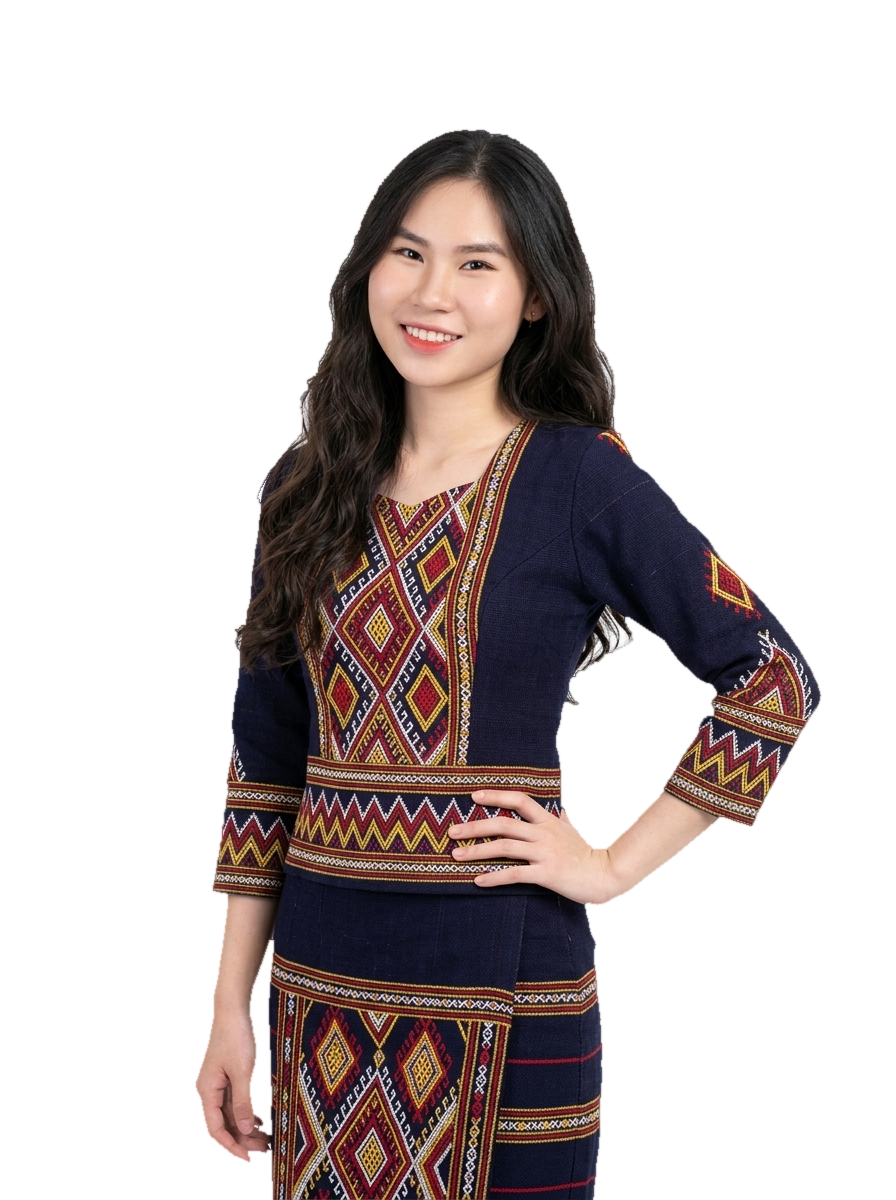
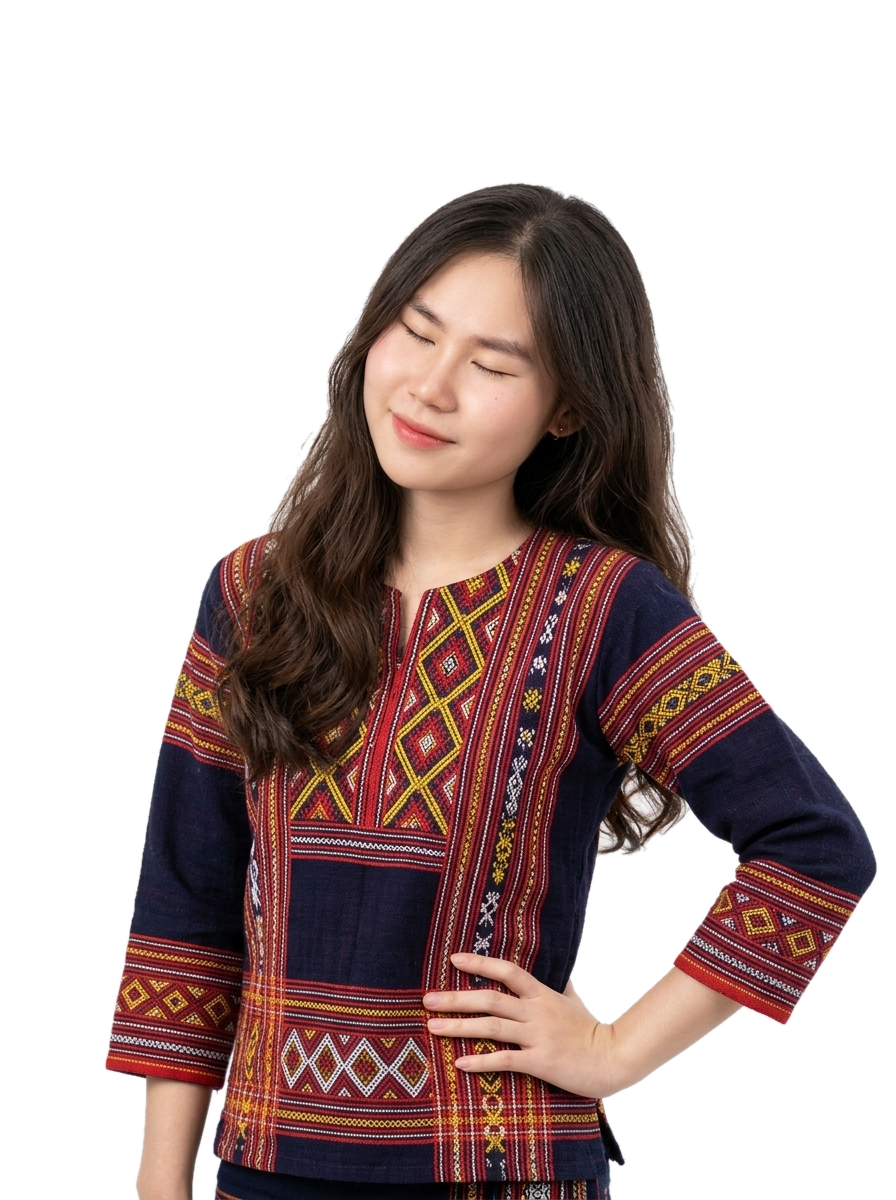
feat(team): update Mai Thi Cam Tu and Huynh Diep Cam Tu portraits and center Mai Thi Cam Tu

diff --git a/src/app/page.tsx b/src/app/page.tsx
@@ -70,13 +70,6 @@ const CATEGORIES_METADATA = [
 
 const FOUNDING_TEAM = [
   {
-    name: 'Mai Thị Cẩm Tú',
-    role: 'Lead / Trưởng Nhóm Dự Án',
-    badge: 'LEAD',
-    image: '/images/team/MaiThiCamTu_brocade.png',
-    desc: 'Điều phối tổng thể, nghiên cứu mô hình kinh doanh xã hội & kết nối hợp tác buôn làng.',
-  },
-  {
     name: 'Huỳnh Diệp Cẩm Tú',
     role: 'Phụ Trách Pháp Lý & Đối Ngoại',
     badge: 'LEGAL',
@@ -89,6 +82,13 @@ const FOUNDING_TEAM = [
     badge: 'TOURISM',
     image: '/images/team/NguyenNgocNu_brocade.png',
     desc: 'Phụ trách trải nghiệm bản địa, kết nối làng du lịch cộng đồng Ia Mơ Nông & lan tỏa văn hóa thổ cẩm Jrai.',
+  },
+  {
+    name: 'Mai Thị Cẩm Tú',
+    role: 'Lead / Trưởng Nhóm Dự Án',
+    badge: 'LEAD',
+    image: '/images/team/MaiThiCamTu_brocade.png',
+    desc: 'Điều phối tổng thể, nghiên cứu mô hình kinh doanh xã hội & kết nối hợp tác buôn làng.',
   },
   {
     name: 'Đinh Sĩ Doãn Đăng',
@@ -1513,22 +1513,9 @@ export default function HomePage() {
             </span>
           </div>
 
-          {/* Lưới 5 thành viên sáng lập: Format Tứ Quý Garden Trang Phục Thổ Cẩm */}
+          {/* Lưới 5 thành viên sáng lập: Format Tứ Quý Garden (Mai Thị Cẩm Tú ở chính giữa) */}
           <div className="team-grid">
-            {/* 1. Mai Thị Cẩm Tú - Lead */}
-            <div className="team-card">
-              <div className="team-bg-shape"></div>
-              <div className="team-bg-text">LEAD</div>
-              <div className="team-portrait-wrapper">
-                <img src="/images/team/MaiThiCamTu_brocade.png" alt="Mai Thị Cẩm Tú" />
-              </div>
-              <div className="team-info-overlay">
-                <h4 className="team-name">Mai Thị Cẩm Tú</h4>
-                <p className="team-role">Lead / Trưởng Nhóm Dự Án</p>
-              </div>
-            </div>
-
-            {/* 2. Huỳnh Diệp Cẩm Tú - Legal & Partnership */}
+            {/* 1. Huỳnh Diệp Cẩm Tú - Legal & Partnership */}
             <div className="team-card">
               <div className="team-bg-shape"></div>
               <div className="team-bg-text">LEGAL</div>
@@ -1541,7 +1528,7 @@ export default function HomePage() {
               </div>
             </div>
 
-            {/* 3. Nguyễn Ngọc Nữ - Tourism & Culture */}
+            {/* 2. Nguyễn Ngọc Nữ - Tourism & Culture */}
             <div className="team-card">
               <div className="team-bg-shape"></div>
               <div className="team-bg-text">TOURISM</div>
@@ -1551,6 +1538,19 @@ export default function HomePage() {
               <div className="team-info-overlay">
                 <h4 className="team-name">Nguyễn Ngọc Nữ</h4>
                 <p className="team-role">Trưởng Ban Du Lịch Sinh Thái & Bản Địa</p>
+              </div>
+            </div>
+
+            {/* 3. Mai Thị Cẩm Tú - Lead (Ở Chính Giữa) */}
+            <div className="team-card">
+              <div className="team-bg-shape"></div>
+              <div className="team-bg-text">LEAD</div>
+              <div className="team-portrait-wrapper">
+                <img src="/images/team/MaiThiCamTu_brocade.png" alt="Mai Thị Cẩm Tú" />
+              </div>
+              <div className="team-info-overlay">
+                <h4 className="team-name">Mai Thị Cẩm Tú</h4>
+                <p className="team-role">Lead / Trưởng Nhóm Dự Án</p>
               </div>
             </div>
 

diff --git a/src/app/about/page.tsx b/src/app/about/page.tsx
@@ -22,13 +22,6 @@ import {
 
 const teamMembers = [
   {
-    name: 'Mai Thị Cẩm Tú',
-    role: 'Lead / Trưởng Nhóm Dự Án',
-    badge: 'LEAD',
-    image: '/images/team/MaiThiCamTu_brocade.png',
-    desc: 'Điều phối tổng thể, nghiên cứu mô hình kinh doanh xã hội & kết nối hợp tác buôn làng.',
-  },
-  {
     name: 'Huỳnh Diệp Cẩm Tú',
     role: 'Phụ Trách Pháp Lý & Đối Ngoại',
     badge: 'LEGAL',
@@ -41,6 +34,13 @@ const teamMembers = [
     badge: 'TOURISM',
     image: '/images/team/NguyenNgocNu_brocade.png',
     desc: 'Phụ trách trải nghiệm bản địa, kết nối làng du lịch cộng đồng Ia Mơ Nông & lan tỏa văn hóa thổ cẩm Jrai.',
+  },
+  {
+    name: 'Mai Thị Cẩm Tú',
+    role: 'Lead / Trưởng Nhóm Dự Án',
+    badge: 'LEAD',
+    image: '/images/team/MaiThiCamTu_brocade.png',
+    desc: 'Điều phối tổng thể, nghiên cứu mô hình kinh doanh xã hội & kết nối hợp tác buôn làng.',
   },
   {
     name: 'Đinh Sĩ Doãn Đăng',
@@ -329,20 +329,7 @@ export default function AboutPage() {
 
         {/* Lưới 5 thành viên sáng lập: Format Tứ Quý Garden Chuẩn Tone Nóng */}
         <div className="team-grid">
-          {/* 1. Mai Thị Cẩm Tú - Lead */}
-          <div className="team-card">
-            <div className="team-bg-shape"></div>
-            <div className="team-bg-text">LEAD</div>
-            <div className="team-portrait-wrapper">
-              <img src="/images/team/MaiThiCamTu_brocade.png" alt="Mai Thị Cẩm Tú" />
-            </div>
-            <div className="team-info-overlay">
-              <h4 className="team-name">Mai Thị Cẩm Tú</h4>
-              <p className="team-role">Lead / Trưởng Nhóm Dự Án</p>
-            </div>
-          </div>
-
-          {/* 2. Huỳnh Diệp Cẩm Tú - Legal & Partnership */}
+          {/* 1. Huỳnh Diệp Cẩm Tú - Legal & Partnership */}
           <div className="team-card">
             <div className="team-bg-shape"></div>
             <div className="team-bg-text">LEGAL</div>
@@ -355,7 +342,7 @@ export default function AboutPage() {
             </div>
           </div>
 
-          {/* 3. Nguyễn Ngọc Nữ - Tourism & Culture */}
+          {/* 2. Nguyễn Ngọc Nữ - Tourism & Culture */}
           <div className="team-card">
             <div className="team-bg-shape"></div>
             <div className="team-bg-text">TOURISM</div>
@@ -365,6 +352,19 @@ export default function AboutPage() {
             <div className="team-info-overlay">
               <h4 className="team-name">Nguyễn Ngọc Nữ</h4>
               <p className="team-role">Trưởng Ban Du Lịch Sinh Thái & Bản Địa</p>
+            </div>
+          </div>
+
+          {/* 3. Mai Thị Cẩm Tú - Lead (Ở chính giữa) */}
+          <div className="team-card">
+            <div className="team-bg-shape"></div>
+            <div className="team-bg-text">LEAD</div>
+            <div className="team-portrait-wrapper">
+              <img src="/images/team/MaiThiCamTu_brocade.png" alt="Mai Thị Cẩm Tú" />
+            </div>
+            <div className="team-info-overlay">
+              <h4 className="team-name">Mai Thị Cẩm Tú</h4>
+              <p className="team-role">Lead / Trưởng Nhóm Dự Án</p>
             </div>
           </div>
 
